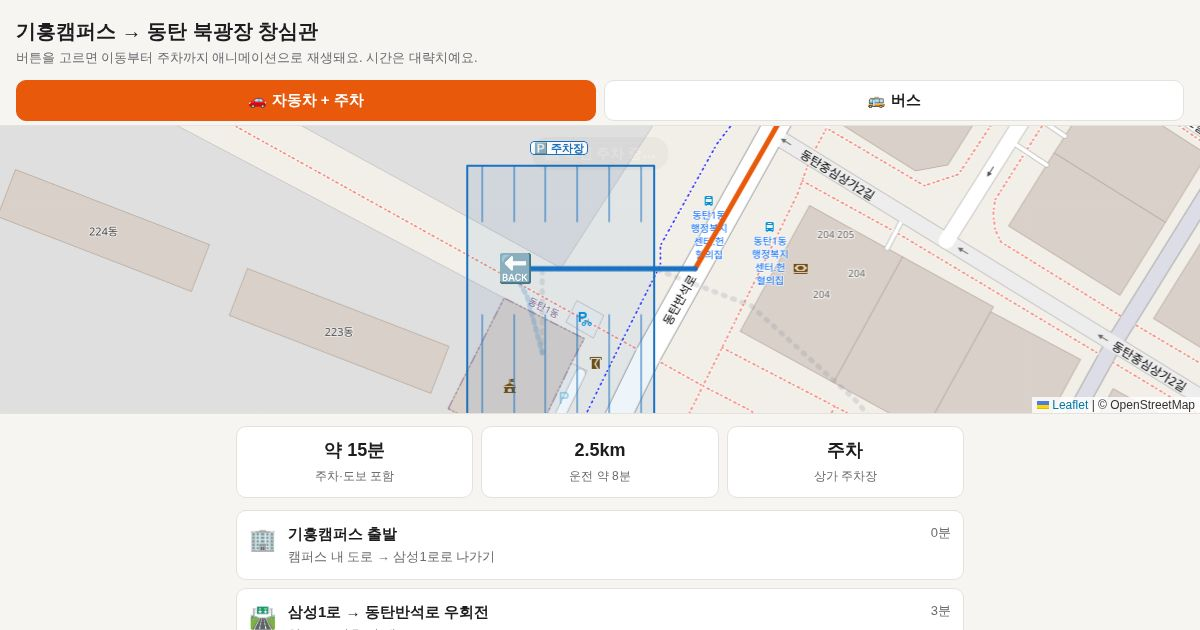
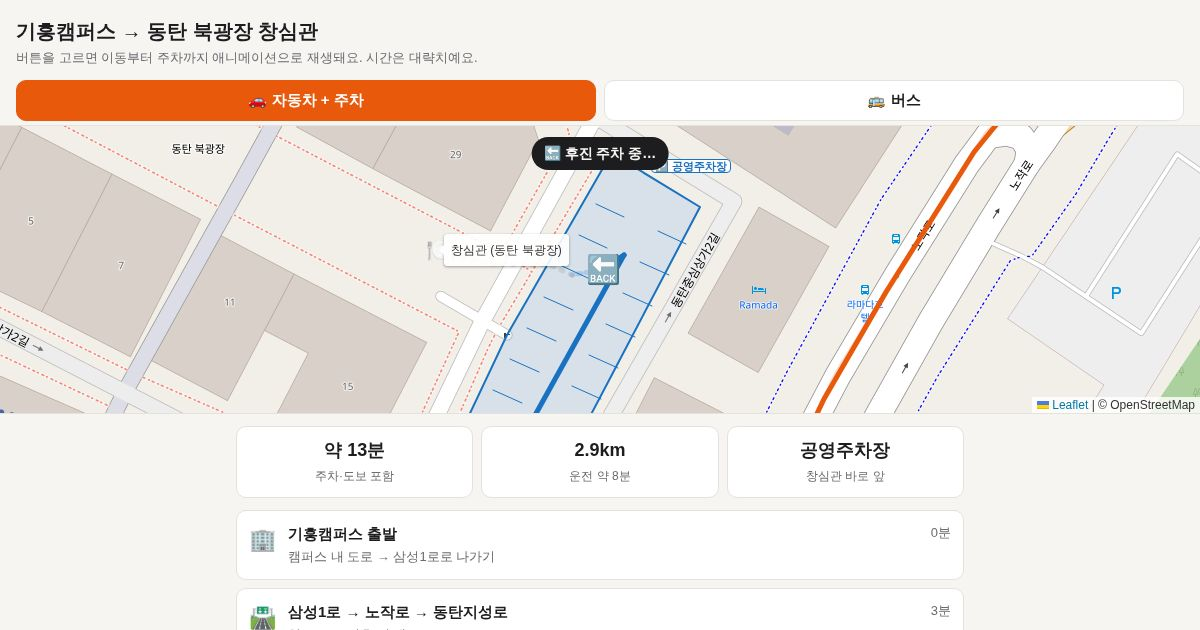
창심관 앞 북광장 공영주차장으로 주차 위치 수정
Claude-Session: https://claude.ai/code/session_01XLoGkQ55rH2pdQUErwRzSn

diff --git a/giheung.html b/giheung.html
@@ -3,7 +3,7 @@
 <meta charset="utf-8"><meta name="viewport" content="width=device-width,initial-scale=1">
 <title>기흥캠퍼스 → 동탄 북광장</title>
 <meta property="og:title" content="삼성전자 기흥캠퍼스 → 동탄 북광장 창심관">
-<meta property="og:description" content="자동차(주차까지) 약 15분 · 버스 약 25분, 지도 애니메이션">
+<meta property="og:description" content="자동차(공영주차장 주차까지) 약 13분 · 버스 약 25분, 지도 애니메이션">
 <meta property="og:image" content="https://kkhgold.github.io/dongtan-route/og-giheung.jpg">
 <link rel="stylesheet" href="https://cdnjs.cloudflare.com/ajax/libs/leaflet/1.9.4/leaflet.min.css">
 <style>
@@ -35,24 +35,27 @@ main{padding:12px 16px 32px;max-width:760px;margin:0 auto}
 <div class="btns"><a target="_blank" rel="noopener" href="https://map.kakao.com/?sName=%EC%82%BC%EC%84%B1%EC%A0%84%EC%9E%90%20%EA%B8%B0%ED%9D%A5%EC%BA%A0%ED%8D%BC%EC%8A%A4&eName=%EB%8F%99%ED%83%84%20%EB%B6%81%EA%B4%91%EC%9E%A5">카카오맵 길찾기</a><button id="replay">▶ 다시 재생</button></div></main>
 <script src="https://cdnjs.cloudflare.com/ajax/libs/leaflet/1.9.4/leaflet.min.js"></script>
 <script>
-const D={"car":[[37.22343,127.08001],[37.22342,127.07996],[37.22347,127.07988],[37.22352,127.07971],[37.22352,127.07955],[37.22347,127.07914],[37.22347,127.07892],[37.22351,127.0787],[37.22346,127.07858],[37.22343,127.07855],[37.22333,127.07848],[37.22315,127.07824],[37.22307,127.07805],[37.22281,127.07769],[37.22223,127.0771],[37.22211,127.07693],[37.22193,127.0767],[37.22176,127.07638],[37.2216,127.07583],[37.22158,127.07575],[37.22157,127.07564],[37.22157,127.07559],[37.22156,127.0755],[37.22138,127.07561],[37.22084,127.07595],[37.22072,127.07604],[37.2204,127.07619],[37.21962,127.07654],[37.21925,127.07672],[37.21865,127.07701],[37.2184,127.07714],[37.21824,127.07722],[37.21796,127.07736],[37.21763,127.07756],[37.21753,127.07761],[37.21712,127.07777],[37.21704,127.07781],[37.21694,127.07784],[37.21677,127.07789],[37.21648,127.07797],[37.21625,127.07805],[37.21501,127.07842],[37.21492,127.0785],[37.21482,127.07852],[37.21452,127.07861],[37.21442,127.07864],[37.21428,127.07868],[37.2141,127.07873],[37.21394,127.07878],[37.21376,127.07885],[37.21365,127.07889],[37.21158,127.07973],[37.21148,127.07977],[37.21147,127.07978],[37.21127,127.07968],[37.21116,127.07923],[37.21104,127.07879],[37.21101,127.07869],[37.21095,127.07851],[37.21086,127.07825],[37.21066,127.07767],[37.21048,127.07726],[37.21043,127.07715],[37.21009,127.07646],[37.20982,127.07597],[37.20961,127.07563],[37.20941,127.07531],[37.20904,127.07479],[37.20896,127.07469],[37.20891,127.07461],[37.20881,127.07448],[37.20857,127.0742],[37.20836,127.07395],[37.20814,127.07373],[37.208,127.07359],[37.20789,127.07347],[37.20775,127.07334],[37.20739,127.07299],[37.20729,127.07291],[37.20697,127.07268],[37.20668,127.07247]],"walk1":[[37.22343,127.08001],[37.22342,127.07996],[37.22347,127.07988],[37.22352,127.07971],[37.22352,127.07955],[37.22347,127.07914],[37.22347,127.07892],[37.22351,127.0787],[37.22346,127.07858],[37.22343,127.07855],[37.22333,127.07848],[37.22315,127.07824],[37.22307,127.07805],[37.22281,127.07769],[37.22223,127.0771],[37.22211,127.07693],[37.22193,127.0767],[37.22176,127.07638],[37.2216,127.07583],[37.22158,127.07575],[37.22157,127.07564],[37.22157,127.07559],[37.22156,127.0755],[37.22138,127.07561]],"bus":[[37.22138,127.07561],[37.22084,127.07595],[37.22072,127.07604],[37.2204,127.07619],[37.21962,127.07654],[37.21925,127.07672],[37.21865,127.07701],[37.2184,127.07714],[37.21824,127.07722],[37.21796,127.07736],[37.21763,127.07756],[37.21753,127.07761],[37.21712,127.07777],[37.21704,127.07781],[37.21694,127.07784],[37.21677,127.07789],[37.21648,127.07797],[37.21625,127.07805],[37.21501,127.07842],[37.21492,127.0785],[37.21482,127.07852],[37.21452,127.07861],[37.21442,127.07864],[37.21428,127.07868],[37.2141,127.07873],[37.21394,127.07878],[37.21376,127.07885],[37.21365,127.07889],[37.21158,127.07973],[37.21148,127.07977],[37.21147,127.07978],[37.21127,127.07968],[37.21116,127.07923],[37.21104,127.07879],[37.21101,127.07869],[37.21095,127.07851],[37.21086,127.07825],[37.21066,127.07767],[37.21048,127.07726],[37.21043,127.07715],[37.21009,127.07646],[37.20982,127.07597],[37.20961,127.07563],[37.20941,127.07531],[37.20904,127.07479],[37.20896,127.07469],[37.20891,127.07461],[37.20881,127.07448],[37.20857,127.0742],[37.20836,127.07395],[37.20814,127.07373],[37.208,127.07359]],"walk2":[[37.208,127.07359],[37.20789,127.07347],[37.20775,127.07334],[37.20739,127.07299],[37.20729,127.07291],[37.20697,127.07268],[37.20668,127.07247]]};
-const START=D.car[0], DEST=[37.20614,127.07317];
+const D={"car":[[37.22343,127.08001],[37.22342,127.07996],[37.22347,127.07988],[37.22352,127.07971],[37.22352,127.07955],[37.22347,127.07914],[37.22347,127.07892],[37.22351,127.0787],[37.22346,127.07858],[37.22343,127.07855],[37.22333,127.07848],[37.22315,127.07824],[37.22307,127.07805],[37.22281,127.07769],[37.22223,127.0771],[37.22211,127.07693],[37.22193,127.0767],[37.22176,127.07638],[37.2216,127.07583],[37.22158,127.07575],[37.22157,127.07564],[37.22157,127.07559],[37.22156,127.0755],[37.22138,127.07561],[37.22084,127.07595],[37.22072,127.07604],[37.2204,127.07619],[37.21962,127.07654],[37.21925,127.07672],[37.21865,127.07701],[37.2184,127.07714],[37.21824,127.07722],[37.21796,127.07736],[37.21763,127.07756],[37.21753,127.07761],[37.21712,127.07777],[37.21704,127.07781],[37.21694,127.07784],[37.21677,127.07789],[37.21648,127.07797],[37.21625,127.07805],[37.21501,127.07842],[37.21492,127.0785],[37.21482,127.07852],[37.21452,127.07861],[37.21442,127.07864],[37.21428,127.07868],[37.2141,127.07873],[37.21394,127.07878],[37.21376,127.07885],[37.21365,127.07889],[37.21158,127.07973],[37.21148,127.07977],[37.21147,127.07978],[37.21131,127.07984],[37.21117,127.0799],[37.20967,127.08052],[37.20958,127.08052],[37.20947,127.0805],[37.20942,127.08049],[37.20936,127.08046],[37.20932,127.08043],[37.20927,127.08039],[37.20922,127.08032],[37.20907,127.08006],[37.20903,127.0799],[37.2089,127.07947],[37.20873,127.07901],[37.20859,127.07868],[37.20846,127.07838],[37.20841,127.07828],[37.20838,127.07822],[37.20832,127.0781],[37.20826,127.07798],[37.20818,127.07782],[37.20807,127.07763],[37.20791,127.07735],[37.20775,127.0771],[37.2077,127.07702],[37.20762,127.0769],[37.20746,127.07669],[37.20742,127.07663],[37.20722,127.07638],[37.20703,127.07615],[37.20699,127.0761],[37.20695,127.07606],[37.2069,127.07601],[37.20674,127.07585],[37.20664,127.07574],[37.20653,127.07563],[37.20647,127.07557],[37.20622,127.07534],[37.20617,127.07528],[37.20611,127.07523],[37.20587,127.07504],[37.20566,127.07488],[37.20542,127.07473],[37.20526,127.07463],[37.20508,127.07452],[37.20485,127.0744],[37.2047,127.07431],[37.20449,127.07421],[37.20455,127.074],[37.20475,127.07338],[37.20488,127.07344],[37.20496,127.07348],[37.20533,127.07366],[37.20531,127.07372],[37.20519,127.074],[37.20548,127.07421]],"walk1":[[37.22343,127.08001],[37.22342,127.07996],[37.22347,127.07988],[37.22352,127.07971],[37.22352,127.07955],[37.22347,127.07914],[37.22347,127.07892],[37.22351,127.0787],[37.22346,127.07858],[37.22343,127.07855],[37.22333,127.07848],[37.22315,127.07824],[37.22307,127.07805],[37.22281,127.07769],[37.22223,127.0771],[37.22211,127.07693],[37.22193,127.0767],[37.22176,127.07638],[37.2216,127.07583],[37.22158,127.07575],[37.22157,127.07564],[37.22157,127.07559],[37.22156,127.0755],[37.22138,127.07561]],"bus":[[37.22138,127.07561],[37.22084,127.07595],[37.22072,127.07604],[37.2204,127.07619],[37.21962,127.07654],[37.21925,127.07672],[37.21865,127.07701],[37.2184,127.07714],[37.21824,127.07722],[37.21796,127.07736],[37.21763,127.07756],[37.21753,127.07761],[37.21712,127.07777],[37.21704,127.07781],[37.21694,127.07784],[37.21677,127.07789],[37.21648,127.07797],[37.21625,127.07805],[37.21501,127.07842],[37.21492,127.0785],[37.21482,127.07852],[37.21452,127.07861],[37.21442,127.07864],[37.21428,127.07868],[37.2141,127.07873],[37.21394,127.07878],[37.21376,127.07885],[37.21365,127.07889],[37.21158,127.07973],[37.21148,127.07977],[37.21147,127.07978],[37.21127,127.07968],[37.21116,127.07923],[37.21104,127.07879],[37.21101,127.07869],[37.21095,127.07851],[37.21086,127.07825],[37.21066,127.07767],[37.21048,127.07726],[37.21043,127.07715],[37.21009,127.07646],[37.20982,127.07597],[37.20961,127.07563],[37.20941,127.07531],[37.20904,127.07479],[37.20896,127.07469],[37.20891,127.07461],[37.20881,127.07448],[37.20857,127.0742],[37.20836,127.07395],[37.20814,127.07373],[37.208,127.07359]],"walk2":[[37.208,127.07359],[37.20789,127.07347],[37.20775,127.07334],[37.20739,127.07299],[37.20729,127.07291],[37.20697,127.07268],[37.20668,127.07247]]};
+const START=D.car[0];
 const R=D.car[D.car.length-1];
-// 주차장 (북광장 옆 상가 주차장, 위치는 대략)
-const LOT=[[37.20640,127.07150],[37.20690,127.07205]];
-const ENT=[37.20668,127.07205], AISLE=[37.20668,127.07160], SPOT=[37.20650,127.07170];
-const PARK=[R,ENT,[37.20668,127.07185],AISLE];          // 진입 → 통로 지나치기
-const REV=[AISLE,[37.20662,127.07164],SPOT];             // 후진 주차
-const WALKP=[SPOT,[37.20668,127.07170],ENT,[37.20668,127.07240],[37.20660,127.07262],[37.20640,127.07290],DEST];
+// 북광장 공영주차장 (화성도시공사 운영 노상주차장, OSM 실제 영역)
+const POLY=[[37.206099,127.074251],[37.206112,127.074315],[37.206015,127.074511],[37.205279,127.074028],[37.205368,127.073773],[37.205741,127.073995]];
+const M0=[37.205324,127.073900],V=[0.000736,0.000510],U=[-0.0000445,0.0001275]; // 축(남→북), 폭 방향(서→동, 절반)
+const P=(t,s)=>[M0[0]+V[0]*t+U[0]*s,M0[1]+V[1]*t+U[1]*s];
+const DEST=P(0.62,-3.2);
+const AISLE=P(0.80,0), SPOT=P(0.70,-0.7);
+const PARK=[R,P(0.30,1.05),P(0.30,0),AISLE];             // 입구 → 통로 따라 지나치기
+const REV=[AISLE,P(0.74,-0.25),SPOT];                      // 후진 주차
+const WALKP=[SPOT,P(0.70,-1.15),P(0.64,-2.2),DEST];
 const STY={car:{c:"#e8590c",d:null,i:"🚗"},park:{c:"#1971c2",d:null,i:"🚗"},rev:{c:"#1971c2",d:"3 5",i:"🔙"},bus:{c:"#2f9e44",d:null,i:"🚌"},walk:{c:"#868e96",d:"2 8",i:"🚶"}};
 const ROUTES={
- car:{stats:[["약 15분","주차·도보 포함"],["2.5km","운전 약 8분"],["주차","상가 주차장"]],
-  legs:[{m:"car",p:D.car,t:5000,z:null,msg:"🚗 출발! 삼성1로 → 동탄반석로"},
-        {m:"park",p:PARK,t:2200,z:19,msg:"🅿 주차장 진입"},
+ car:{stats:[["약 13분","주차·도보 포함"],["2.9km","운전 약 8분"],["공영주차장","창심관 바로 앞"]],
+  legs:[{m:"car",p:D.car,t:5000,z:null,msg:"🚗 출발! 삼성1로 → 노작로"},
+        {m:"park",p:PARK,t:2200,z:19,msg:"🅿 북광장 공영주차장 진입"},
         {m:"rev",p:REV,t:1800,z:19,msg:"🔙 후진 주차 중…"},
         {m:"walk",p:WALKP,t:2600,z:18,msg:"✅ 주차 완료! 창심관까지 걸어가요"}],
-  steps:[["🏢","기흥캠퍼스 출발","캠퍼스 내 도로 → 삼성1로로 나가기","0분"],["🛣","삼성1로 → 동탄반석로 우회전","약 2km, 신호 몇 개","3분"],["🅿","북광장 상가 주차장 진입","주말·저녁은 만차 잦음 → 건물 지하주차장 이용","8분"],["🔙","후진 주차","","11분"],["🚶","창심관까지 도보","약 150m","15분"]],
-  note:"창심관과 주차장 위치는 카카오맵에서 확인이 안 돼 북광장 기준 대략 위치예요. 북광장 주변은 저녁 시간 주차가 어려우니, 가게 제휴 주차장이 있는지 미리 물어보세요."},
+  steps:[["🏢","기흥캠퍼스 출발","캠퍼스 내 도로 → 삼성1로로 나가기","0분"],["🛣","삼성1로 → 노작로 → 동탄지성로","약 2.5km, 신호 몇 개","3분"],["🅿","북광장 공영주차장 진입","동탄중심상가2길 쪽 입구 · 저녁·주말엔 만차 잦음","8분"],["🔙","후진 주차","","11분"],["🚶","창심관까지 도보","주차장 바로 앞, 1분","13분"]],
+  note:"공영주차장은 화성도시공사가 운영하는 북광장 유료 노상주차장이에요 (OpenStreetMap 영역 기준). 창심관은 주차장 바로 앞으로 표시했지만 정확한 건물 위치는 카카오맵으로 확인하세요. 저녁·주말엔 만차가 잦아요."},
  bus:{stats:[["약 25분","대기 포함"],["버스 1번","환승 없음"],["1,500원대","교통카드"]],
   legs:[{m:"walk",p:D.walk1,t:2200,z:16,msg:"🚶 캠퍼스 정류장까지 걸어가요"},
         {m:"bus",p:D.bus,t:4500,z:null,msg:"🚌 버스 탑승 → 북광장 방면"},
@@ -65,9 +68,9 @@ L.tileLayer("https://tile.openstreetmap.org/{z}/{x}/{y}.png",{maxZoom:20,maxNati
 const icon=(t,s=24)=>L.divIcon({html:`<div style="font-size:${s}px;line-height:1">${t}</div>`,className:"",iconSize:[s,s],iconAnchor:[s/2,s/2]});
 // 주차장 그리기
 const lot=L.layerGroup().addTo(map);
-L.rectangle(LOT,{color:"#1971c2",weight:2,fillColor:"#1971c2",fillOpacity:.08}).addTo(lot);
-for(let k=0;k<6;k++){const x=127.07154+k*0.00008;L.polyline([[37.20640,x],[37.20658,x]],{color:"#1971c2",weight:1}).addTo(lot);L.polyline([[37.20678,x],[37.20690,x]],{color:"#1971c2",weight:1}).addTo(lot)}
-L.marker([37.20696,127.07178],{icon:L.divIcon({html:'<span class="lotlbl">🅿 주차장</span>',className:"",iconSize:[60,16],iconAnchor:[30,8]})}).addTo(lot);
+L.polygon(POLY,{color:"#1971c2",weight:2,fillColor:"#1971c2",fillOpacity:.1}).addTo(lot);
+for(let k=0;k<10;k++){const t=0.08+k*0.09;L.polyline([P(t,-0.35),P(t,-0.95)],{color:"#1971c2",weight:1}).addTo(lot);L.polyline([P(t,0.35),P(t,0.95)],{color:"#1971c2",weight:1}).addTo(lot)}
+L.marker(P(1.08,0.3),{icon:L.divIcon({html:'<span class="lotlbl">🅿 공영주차장</span>',className:"",iconSize:[80,16],iconAnchor:[40,8]})}).addTo(lot);
 L.marker(START,{icon:icon("🏢")}).addTo(map).bindTooltip("삼성전자 기흥캠퍼스");
 L.marker(DEST,{icon:icon("🍽")}).addTo(map).bindTooltip("창심관 (동탄 북광장)",{permanent:true,direction:"right"});
 let layer=L.layerGroup().addTo(map),mover=null,raf=0,m="car",run=0;
